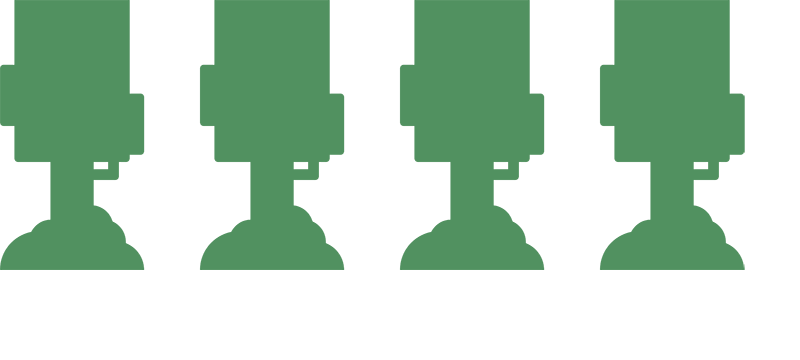
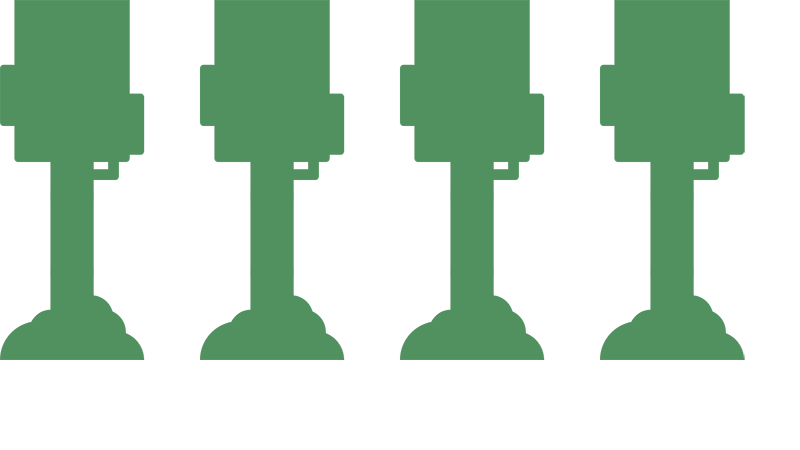
控制

diff --git a/js/index.js b/js/index.js
@@ -1,5 +1,6 @@
 const cw = 800;
-const ch = 360;
+const ch = 450;
+const scale = 0.6;
 const gameStart = {
     key: 'gameStart',
     preload: function(){
@@ -10,23 +11,28 @@ const gameStart = {
         this.load.image('footer', 'images/bg/footer.png');
         this.load.image('rock1', 'images/item-level-1-rock.png');
         this.load.spritesheet('user', 'images/player.png', {frameWidth: 144, frameHeight: 120});
+
+
+        this.iskeyJump = true;
     },
     create: function(){
-        this.bg4 = this.add.tileSprite(400, 180, 800, 360, 'bg4');
-        this.bg3 = this.add.tileSprite(400, 180, 800, 360, 'bg3');
-        this.bg2 = this.add.tileSprite(400, 180, 800, 360, 'bg2');
-        this.bg1 = this.add.tileSprite(400, 180, 800, 360, 'bg1');
-        this.footer = this.add.tileSprite(400, 310, 800, 90, 'footer');
-        this.rock1 = this.add.tileSprite(cw, 215, 200, 104, 'rock1');
-        // this.rock1.setScale(0.6);
+        this.bg4 = this.add.tileSprite(400, 225, cw, ch, 'bg4');
+        this.bg3 = this.add.tileSprite(400, 225, cw, ch, 'bg3');
+        this.bg2 = this.add.tileSprite(400, 225, cw, ch, 'bg2');
+        this.bg1 = this.add.tileSprite(400, 225, cw, ch, 'bg1');
+        this.footer = this.add.tileSprite(400, 406, 800, 90, 'footer');
+        this.rock1 = this.add.tileSprite(cw - 200, 330, 200 * 0.6, 104 * 0.6, 'rock1');
+        
 
         //設定人物位置與加入物理效果
-        this.player = this.physics.add.sprite(150, 50, 'user');
+        this.player = this.physics.add.sprite(150, 150, 'user');
         this.player.setCollideWorldBounds(true); //角色邊界限制
-        this.player.setBounce(0.2); //設定彈跳值
-        this.player.setScale(0.6); //設定顯示大小
+        this.player.setBounce(1); //設定彈跳值
+        this.player.setScale(scale); //設定顯示大小
         this.player.setSize(110, 120, 0); //碰撞邊界
 
+        
+        
         this.anims.create({
             key: 'run',
             frames: this.anims.generateFrameNumbers('user', { start: 0, end: 1 }),
@@ -60,7 +66,7 @@ const gameStart = {
 
         //播放動畫
         this.player.anims.play('run', true);
-        console.log(this.player);
+        
         
     },
     update: function(){
@@ -71,24 +77,30 @@ const gameStart = {
         // this.rock1.x -= 3;
 
          // 啟動鍵盤事件
-         let cursors = this.input.keyboard.createCursorKeys();
-         if (cursors.right.isDown) {
-             this.player.setVelocityX(200);
-             this.player.flipX = false;
-             this.player.setSize(144, 120, 0); //碰撞邊界
-             this.player.anims.play('speed', true);
-         } else if (cursors.left.isDown) {
-             this.player.setVelocityX(-260);
-             this.player.setSize(144, 120, 0); //碰撞邊界
-             this.player.anims.play('speed', true);
-         } else {
+        let cursors = this.input.keyboard.createCursorKeys();
+        
+        if (cursors.right.isDown) {
+            this.player.setVelocityX(200);
+            // this.player.flipX = false;
+            this.player.setSize(144, 120, 0); //碰撞邊界
+            this.player.anims.play('speed', true);
+        } else if (cursors.left.isDown) {
+            this.player.setVelocityX(-300);
+            this.player.anims.play('jump', true);
+        } else {
             this.player.setVelocityX(0);
             this.player.setSize(110, 120, 0); //碰撞邊界
             this.player.anims.play('run', true);
-         }
-         if (cursors.up.isDown && this.player.body.touching.down) {
-             this.player.setVelocityY(-700);
-         }
+        }
+
+        if (cursors.up.isDown) {
+            if(this.iskeyJump){
+                this.iskeyJump = false;
+                this.player.setVelocityY(-200);
+            }
+        }else{
+            this.iskeyJump = true;
+        }
     }
 }
 const config = {
@@ -100,9 +112,9 @@ const config = {
         default: 'arcade',
         arcade: {
             gravity: {
-                y: 1500
+                y: 450
             },
-            // debug: true,
+            debug: true,
         },
     },
     scene: [
